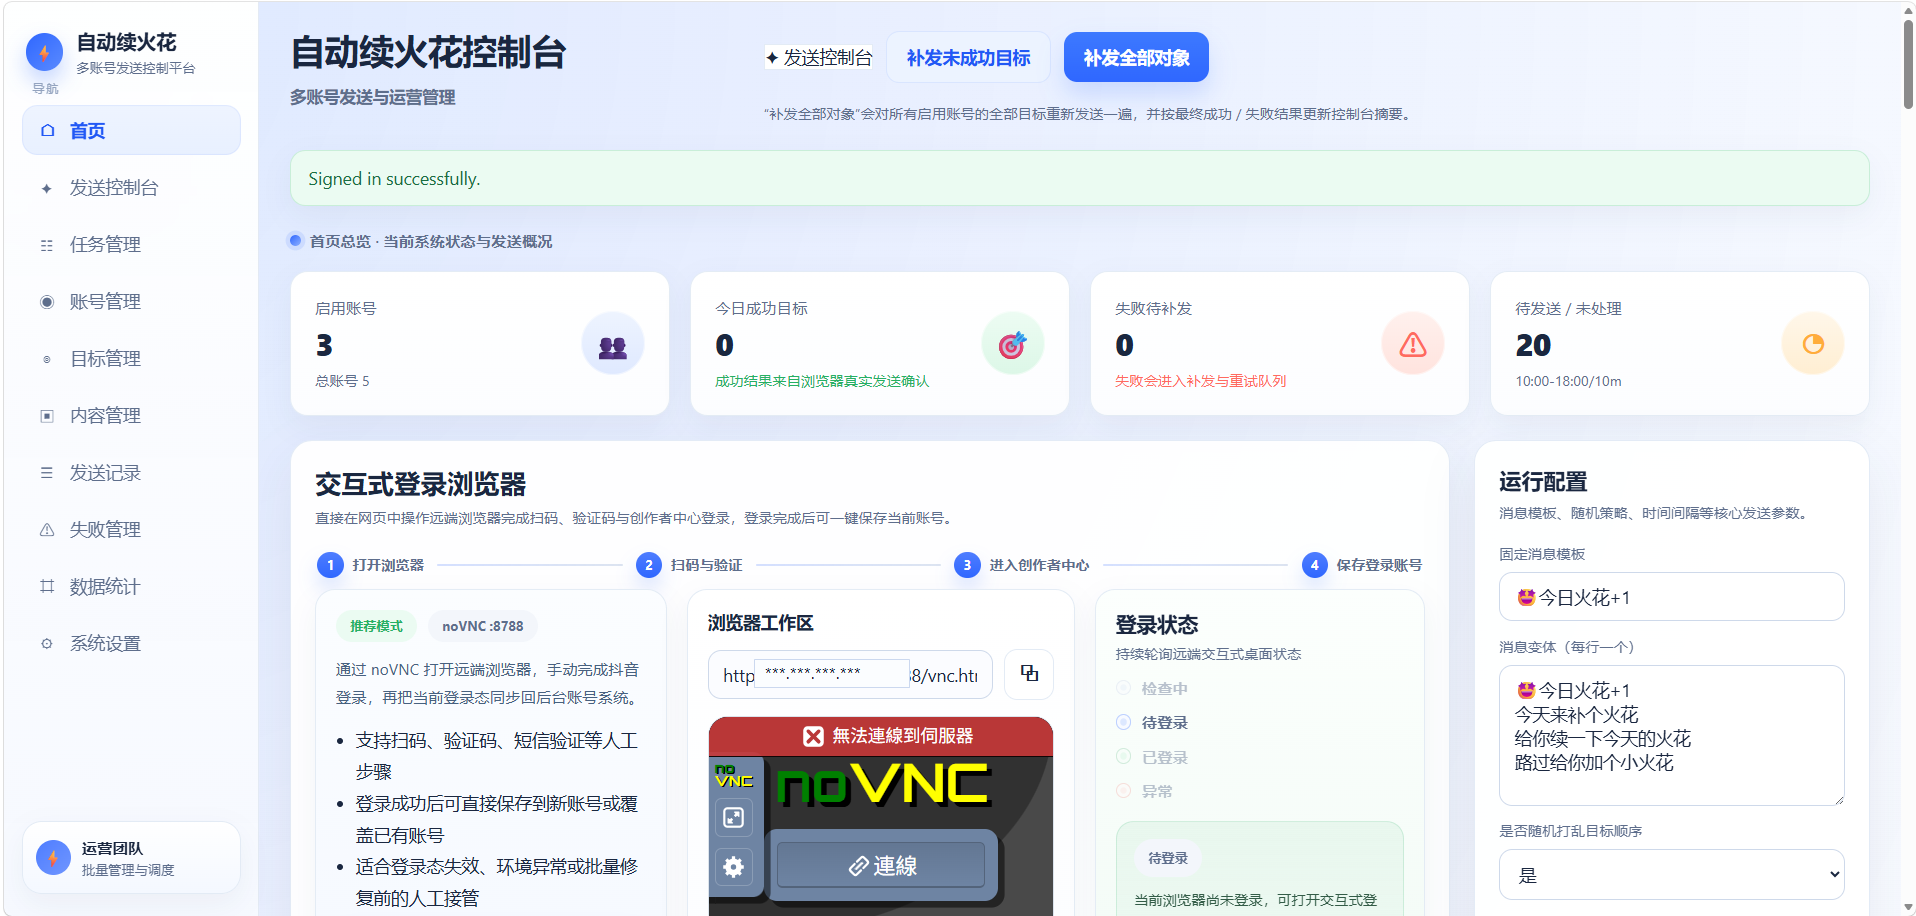
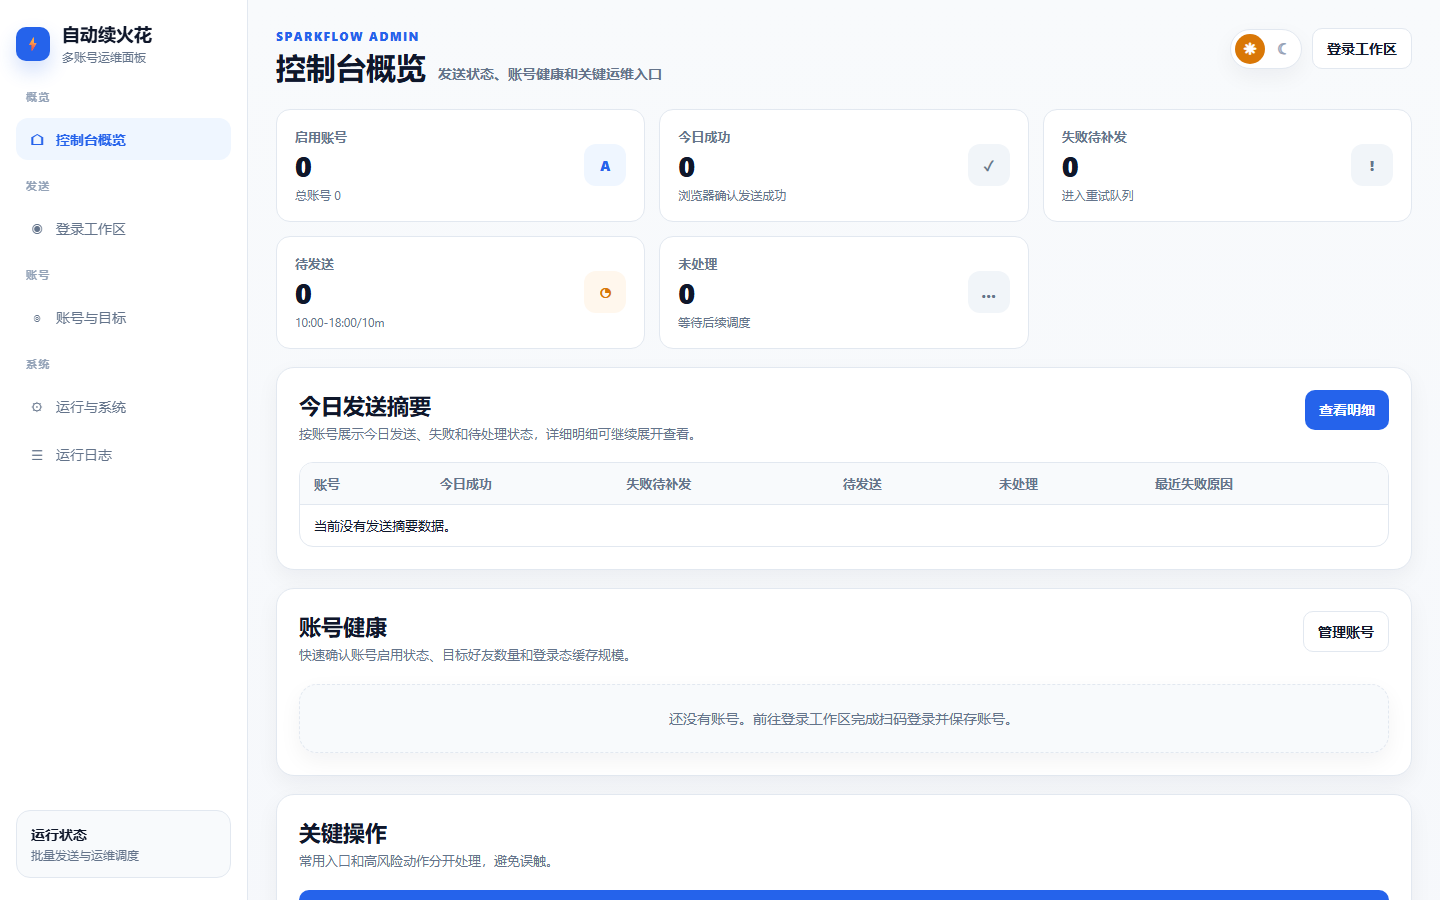
docs: add screenshot usage guide

diff --git a/DouYinSparkFlow/webui/static/app.css b/DouYinSparkFlow/webui/static/app.css
@@ -436,6 +436,12 @@ h3 {
   align-items: start;
 }
 
+.layout-grid > *,
+.dashboard-layout > *,
+.settings-layout > * {
+  min-width: 0;
+}
+
 .content-grid {
   display: grid;
   grid-template-columns: repeat(2, minmax(0, 1fr));
@@ -1200,6 +1206,8 @@ tbody tr:last-child td {
     grid-template-columns: repeat(3, minmax(0, 1fr));
   }
 
+  .layout-grid,
+  .dashboard-layout,
   .content-grid,
   .account-list,
   .account-grid {

diff --git a/docs/usage.md b/docs/usage.md
@@ -1,0 +1,91 @@
+# 🔥 Douyin SparkFlow 使用教程
+
+这份教程按第一次部署后的操作顺序写。你需要先完成服务器或本地部署，然后访问 Web 面板。
+
+## 1. 登录控制台
+
+打开 Web 面板地址，例如：
+
+- 服务器部署：`http://服务器IP:8787`
+- 本地部署：`http://127.0.0.1:8787`
+
+首次打开时创建管理员账号。后续登录时输入管理员用户名和密码。
+
+![控制台登录](images/usage-login.png)
+
+## 2. 查看控制台概览
+
+登录后进入 **控制台概览**。这里用于快速确认启用账号、今日成功、失败待补发、待发送、未处理和服务状态。
+
+右上角的小太阳和小月亮可以切换白天模式和黑夜模式，选择会保存在当前浏览器中。
+
+![控制台概览](images/usage-overview.png)
+
+## 3. 打开登录工作区
+
+进入 **登录工作区**，在远端浏览器里完成抖音扫码、验证码或其他人工验证步骤。
+
+如果内嵌 noVNC 无法连接，点击 **新窗口打开**。登录完成后点击 **保存当前账号**，面板会把登录态写入账号配置。
+
+![登录工作区](images/usage-login-workspace.png)
+
+## 4. 维护账号与目标好友
+
+进入 **账号与目标** 查看已保存的账号。你可以启用或停用账号，修改显示名，维护目标好友。
+
+如果账号已经保存，可以点击 **刷新好友列表**，再从好友选择器中选择目标好友。保存后，定时任务会按这些目标执行续火花。
+
+![账号与目标](images/usage-accounts.png)
+
+## 5. 设置运行参数和发送窗口
+
+进入 **运行与系统** 调整消息模板、随机策略、消息间隔、代理维护和发送窗口。
+
+发送窗口使用北京时间，例如：
+
+```text
+10:00-18:00/10m
+```
+
+这个例子表示每天 `10:00` 到 `18:00` 之间执行，调度间隔为 `10` 分钟。
+
+![运行与系统](images/usage-settings.png)
+
+## 6. 处理失败和查看日志
+
+在概览页可以点击 **查看明细** 查看今日发送明细。遇到失败时，优先使用 **补发未成功目标**，它只会处理失败队列。
+
+**补发全部对象** 会重新处理所有启用账号的所有目标，适合确认目标范围后手动执行。
+
+需要排查问题时，进入 **运行日志** 查看最近任务输出。
+
+## 7. 使用黑夜模式
+
+黑夜模式适合夜间运维或长时间盯屏。点击右上角的小月亮即可切换。
+
+![黑夜模式](images/usage-dark-mode.png)
+
+## 常见问题
+
+### 登录工作区打不开
+
+先点击 **新窗口打开**。如果仍然不可用，检查 `login-desktop` 容器是否运行，并确认服务器防火墙或安全组已放行登录桌面端口。
+
+```bash
+docker compose ps
+docker compose logs -f login-desktop
+```
+
+### 账号保存后没有好友列表
+
+进入 **账号与目标**，点击 **刷新好友列表**。刷新需要当前账号的登录态有效，如果登录态过期，回到 **登录工作区** 重新登录并保存。
+
+### 定时任务没有按预期发送
+
+检查 **运行与系统** 里的发送窗口，再查看调度容器日志：
+
+```bash
+docker compose logs -f scheduler
+```
+
+如果只是少量目标失败，先使用 **补发未成功目标**，不要直接补发全部对象。

diff --git a/README.md b/README.md
@@ -13,10 +13,13 @@ Douyin SparkFlow 提供一个面向个人自用场景的抖音火花维护工具
 - ⏱ 定时执行续火花任务，支持手动触发和日志查看。
 - 🌐 可选 Mihomo/Clash 代理订阅配置。
 - 🐳 Docker Compose 编排 Web、登录桌面、定时器、任务和代理服务。
+- 🌗 支持小太阳/小月亮切换白天模式和黑夜模式。
 
 ## 🖼 界面预览
 
 ![Douyin SparkFlow 控制台界面预览](docs/images/ui-preview.png)
+
+新版 Web 面板将概览、登录工作区、账号与目标、运行与系统拆成独立视图。完整流程见 [使用教程](docs/usage.md)。
 
 ## ⚠ 免责声明
 
@@ -86,10 +89,12 @@ docker compose ps
 首次使用：
 
 1. 创建管理员账号。
-2. 打开登录桌面并扫码登录抖音。
+2. 打开登录工作区并扫码登录抖音。
 3. 保存登录态。
 4. 刷新好友列表并选择目标好友。
 5. 设置发送窗口，例如 `10:00-18:00/10m`。
+
+截图版操作流程见 [使用教程](docs/usage.md)。
 
 ## 💻 本地运行
 

diff --git a/CHANGELOG.md b/CHANGELOG.md
@@ -7,6 +7,7 @@
 - Added safer confirmations for manual operations and localized the main Web UI feedback messages.
 - Removed the redundant send-console navigation label while keeping send details available from contextual actions.
 - Added a persistent sun/moon toggle for switching between light and dark console themes.
+- Updated the README preview image and added a screenshot-based usage guide.
 - Added a project disclaimer to the root README.
 - Added a Linux Do friendly link and GitHub star history chart.
 - Refined the root README wording and structure for an open source project style.
